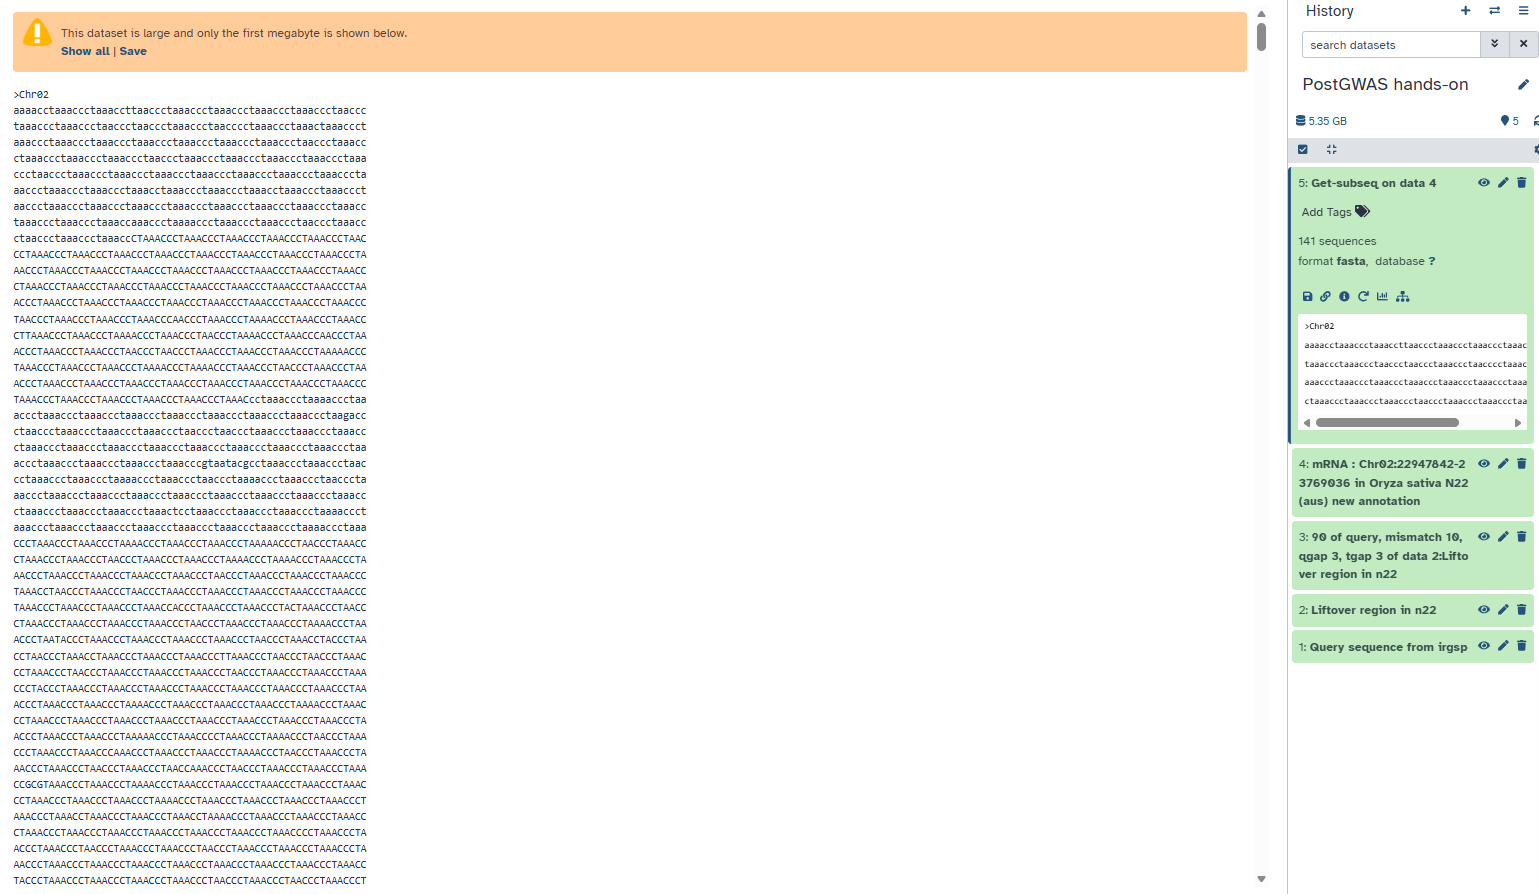
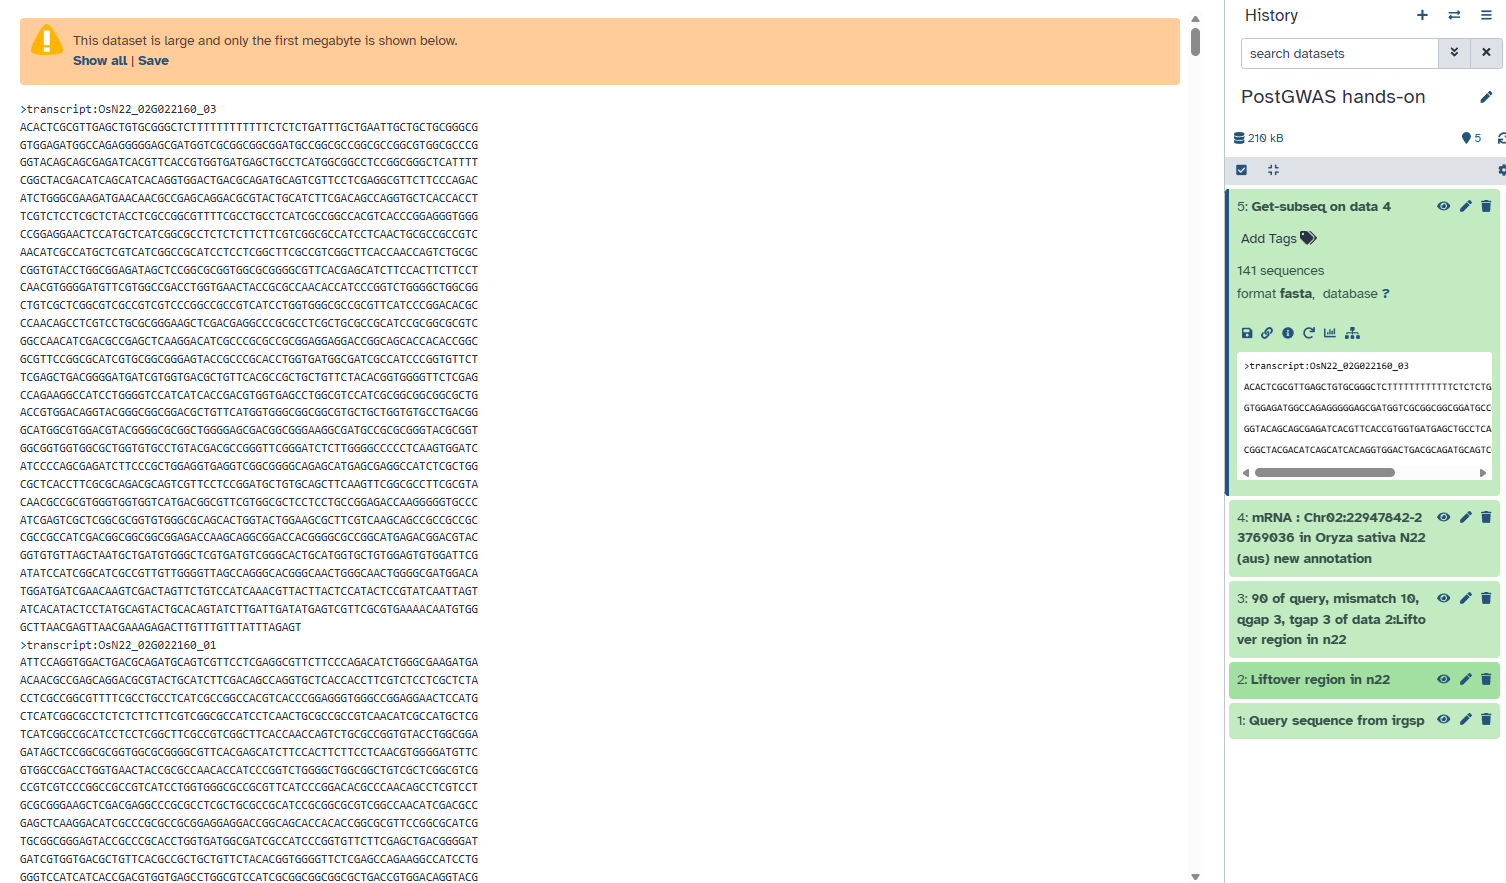
Refactor code structure for improved readability and maintainability

Changed region(s): [[0.0, 0.0, 1.0, 1.0], [0.8114, 0.9785, 0.8426, 1.0]]

diff --git a/exercises/exercise3.html b/exercises/exercise3.html
@@ -168,8 +168,8 @@ footer {
     <h5>Overview</h5>
 
     <a href="#objective">Objective</a>
-    <a href="#preparation">Preparation</a>
-    <a href="#liftover">Liftover_via_SNP</a>
+    <a href="#recap">Recap</a>
+    <a href="#find-seq">Find-seq</a>
     <a href="#blat">Blat Alignment Filter</a>
     <a href="#genes">Get-genes-by-region(s) IDs v2</a>
     <a href="#subseq">Get-subseq</a>
@@ -183,50 +183,78 @@ footer {
 Learn how to identify candidate genes from a genomic region of interest using CropGalaxy and its integrated tools.
 </p>
 
-<h2 id="preparation">Preparation</h2>
-Open <a href="http://cropgalaxy.duckdns.org/" target="_blank">CropGalaxy</a>. 
-  You will see three main panels: 
-    <ul> 
-      <li><strong>Left panel:</strong> Available tools</li> 
-      <li><strong>Middle panel:</strong> Analysis workspace</li> 
-      <li><strong>Right panel:</strong> Analysis history</li> 
-    </ul> 
-    <figure> <img src="../assets/landing_page.png" alt="CropGalaxy landing page"> <figcaption>CropGalaxy landing page showing the three main panels</figcaption> </figure>
+<h2 id="recap">Recap</h2>
+<p>We generated a gene list and their sequences anchored on N22, an
+aus-type genome, for the QTL, qDTF2.2. We did this because our donor is
+closely related to N22.
+Our goal now is to use available annotations to learn about the putative
+functions of the genes in our list. We will now begin another series of analysis.</p>
 
-<h2 id="liftover">Liftover_via_SNP</h2>
+
+<!-- ====== Find seq ====== -->
+<h2 id="find-seq">Find-seq</h2>
 
 <p>
 This tool maps genomic regions from a source genome to a target genome using SNP-guided alignment.
 </p>
 
 <ol>
+    <li>Select <strong>Find-seq</strong> tool.</li>
+        <figure>
+            <img src="../assets/find-seq.png" alt="Find-seq tool">
+            <figcaption>Find-seq tool interface</figcaption>
+        </figure>
 
-<li>Select the RiceGalaxy: SNP Data Tools suite.</li>
-<li>Choose <strong>Liftover_via_SNP</strong>.</li>
 <li>Set parameters:
     <ul>
-        <li>Source genome: <strong>Nipponbare</strong></li>
-        <li>Coordinates: Chr02, 22001414 – 22831782</li>
-        <li>Target genome: <strong>N22</strong></li>
+        <li>Use the sequences derived from <strong>Exercise 2</strong></li>
+        <li>Select a built-in rice genome/gene database or use a multi-FASTA data from your history? <strong>Use a built-in gene database</strong></li>
+        <li>Select reference database: <strong>N22</strong></li>
+        <li>Leave other settings as default</li>
     </ul>
 </li>
-<li>Click <strong>Run Tool</strong></li>
+    <figure>
+        <img src="../assets/find-seq_parameters.png" alt="Find-seq parameters">
+        <figcaption>Find-seq tool parameters</figcaption>
+    </figure>
+<br>
+<li>Once the parameters are set, click <strong>Run Tool</strong></li>
+    <figure>
+        <img src="../assets/find-seq_result.png" alt="Find-seq run">
+        <figcaption>Running the Find-seq tool</figcaption>
+    </figure>
+
+<li>View the results of the Find-seq tool run.</li>
+<p>Upon closer look on the output, you will notice that there are a lot of gene
+duplications and genome rearrangements given the chromosome location of
+the Nipponbare genes. We will need to filter this using “Blat Alignment Filter”.</p>
+
+    <figure>
+        <img src="../assets/find-seq_output.png" alt="Find-seq result view">
+        <figcaption>Viewing the Find-seq tool result</figcaption>
+    </figure>
 </ol>
 
-<figure>
-<img src="../assets/liftover-via-snp.png" alt="Liftover tool">
-<figcaption>Liftover_via_SNP interface</figcaption>
-</figure>
-
-
-
-
-
+<!-- ====== Blat Alignment Filter ====== -->
 <h2 id="blat">Blat Alignment Filter</h2>
 
 <p>
-Filters alignment results based on identity, coverage, and mapping quality to refine genomic region mapping.
+We will filter out PSL table to get only those whose sequence matches <strong>90%</strong> with the Nipponbare gene sequence.
 </p>
+
+<ol>
+    <li>Search for the <strong>Blat Alignment Filter</strong> tool.</li>
+    <li>Set parameters:
+        <ul>
+            <li>Input: Use the output from the Find-seq tool run</li>
+            <li>Identity cutoff: 90%</li>
+            <li>Leave other settings as default</li>
+        </ul>
+    </li>
+
+
+
+<!-- ====== Blat Alignment Filter ====== -->
 
 <h2 id="genes">Get-genes-by-region(s) IDs v2</h2>
 
@@ -246,8 +274,8 @@ Retrieves nucleotide sequences of candidate genes for downstream functional anal
 <div class="nav-buttons d-flex justify-content-between mt-5">
     
     <!-- Left Button -->
-    <a href="lecture1.html" class="btn btn-outline-secondary">
-        &larr; Exercise 1
+    <a href="exercise2.html" class="btn btn-outline-secondary">
+        &larr; Exercise 2
     </a>
 
     <!-- Right Button -->

diff --git a/exercises/exercise2.html b/exercises/exercise2.html
@@ -319,7 +319,7 @@ It uses "awk" Linux utility in the background to filter the alignment results.
   <li>Click <strong>Run Tool</strong>
     <figure>
 	  	<img src="../assets/blat-alignment-filter_result.png" alt="Blat Alignment Filter tool result">
-	  	<figcaption>Blat Alignment Filter tool result</figcaption>
+	  	<figcaption>Blat Alignment Filter tool run</figcaption>
 	  </figure>
   </li> 
   <br>
@@ -382,7 +382,7 @@ It uses "awk" Linux utility in the background to filter the alignment results.
   <li> Click <strong>Run Tool</strong>
     <figure>
     	<img src="../assets/get-genes-by-region_result.png" alt="Get Genes by Region tool result">
-    	<figcaption>Get Genes from Region IDs v2 tool result</figcaption>
+    	<figcaption>Get Genes from Region IDs v2 tool run</figcaption>
     </figure>
   </li>
 
@@ -430,14 +430,14 @@ Retrieves nucleotide sequences of candidate genes for downstream functional anal
   <li> Click <strong>Run Tool</strong>
     <figure>
     	<img src="../assets/get-subseq_result.png" alt="Get-subseq tool result">
-    	<figcaption>Get-subseq tool result</figcaption>
+    	<figcaption>Get-subseq tool run</figcaption>
     </figure>
   </li>
 
   <li> Click on the <strong>View Data</strong> to display output.
         <figure>
     	<img src="../assets/get-subseq_output.png" alt="Get-subseq tool output">
-    	<figcaption>Get-subseq tool output showing nucleotide sequences of candidate genes</figcaption>
+    	<figcaption>Get-subseq tool output</figcaption>
     </figure>
   </li>
 
